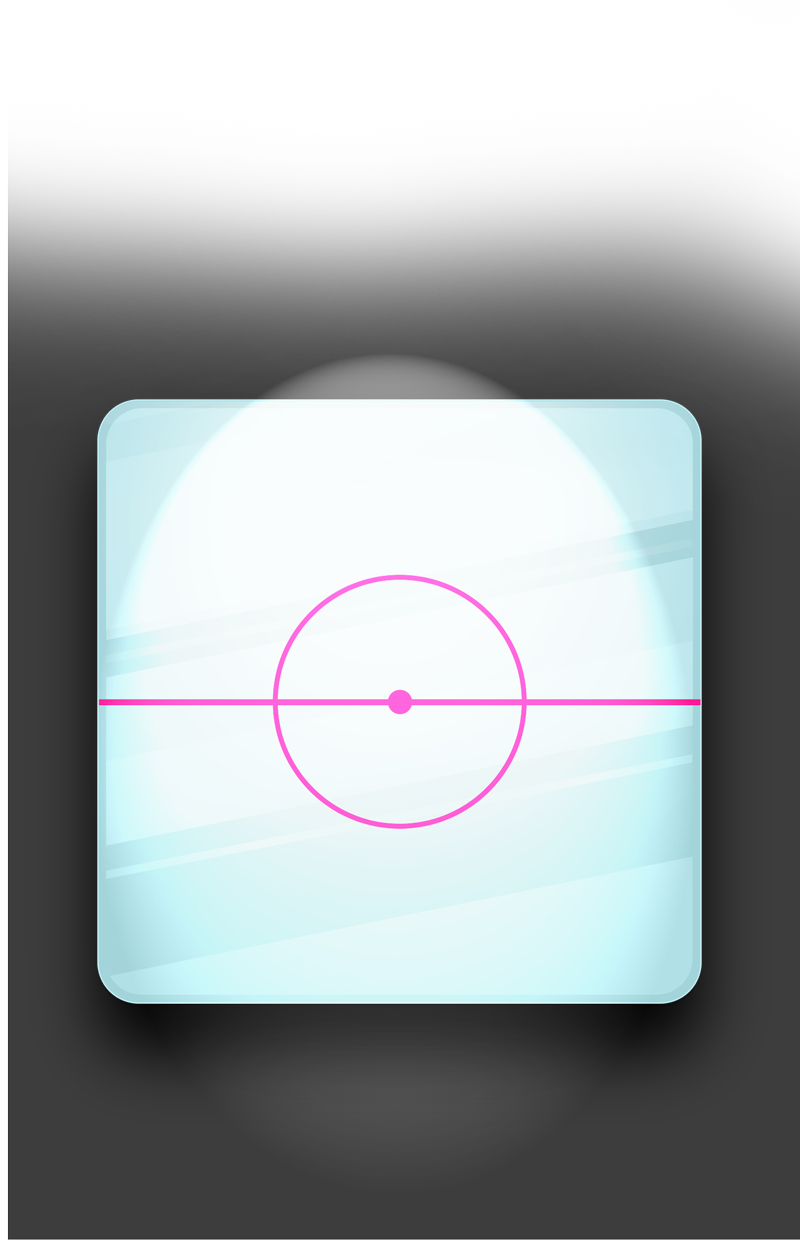
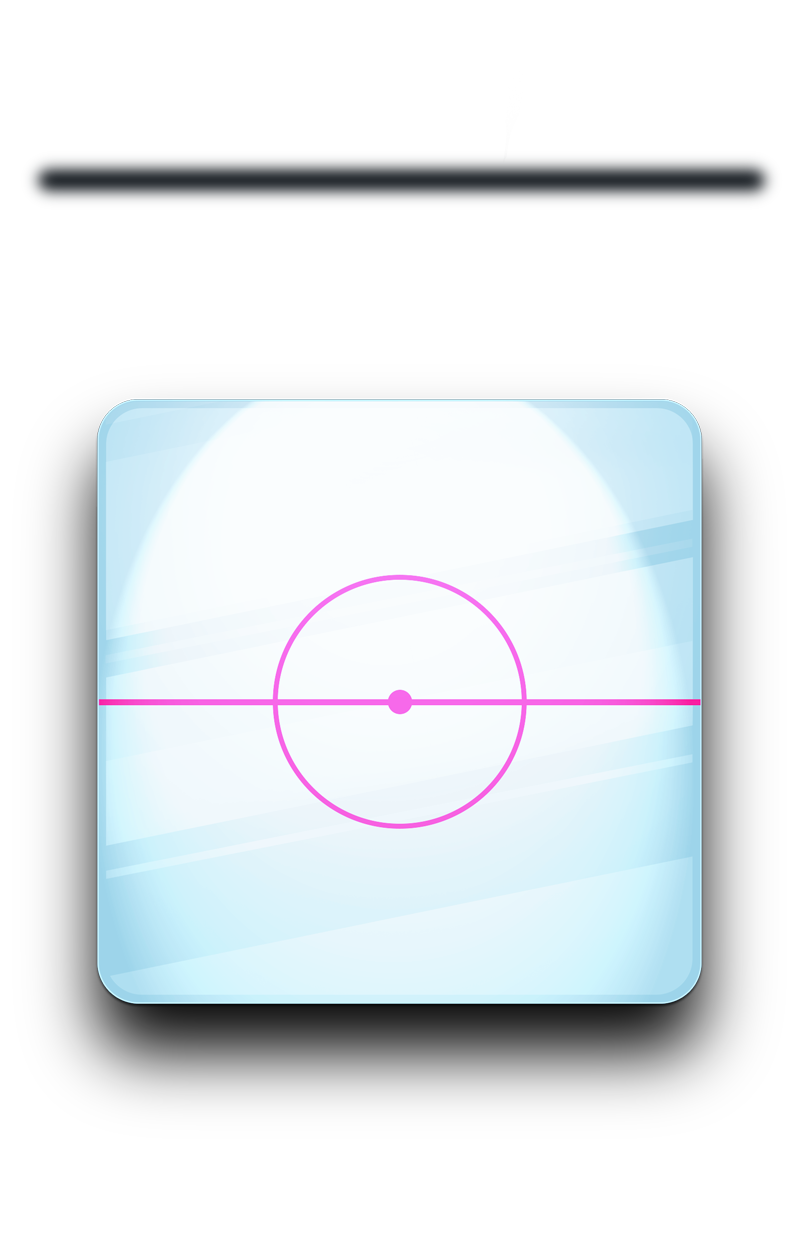
[Image Update] Lazer + rock. C'est normal que Android accepte pas le fait que je mette un symbolique sur rock qui sont bêtement des png transparent ?

diff --git a/Bouboule/src/be/ac/ucl/lfsab1509/bouboule/game/level/LevelLoader.java b/Bouboule/src/be/ac/ucl/lfsab1509/bouboule/game/level/LevelLoader.java
@@ -215,10 +215,7 @@ public class LevelLoader {
 		String texRegionPath 	= file + ".png";
 		String jsonFile 		= file + ".json";
 		String jsonName 		= extractFileName(file);
-		// TODO => remove when ROCK will have .png file
-		if (jsonName.equals("rock"))
-			texRegionPath = file + ".jpg";
-		//______________________________________________________
+
 		String cMusicName 		= aren.getAttribute ("music", null);
 
 		graphicManager.addBody(new Arena(radius, px, py,  angle, texRegionPath, 
